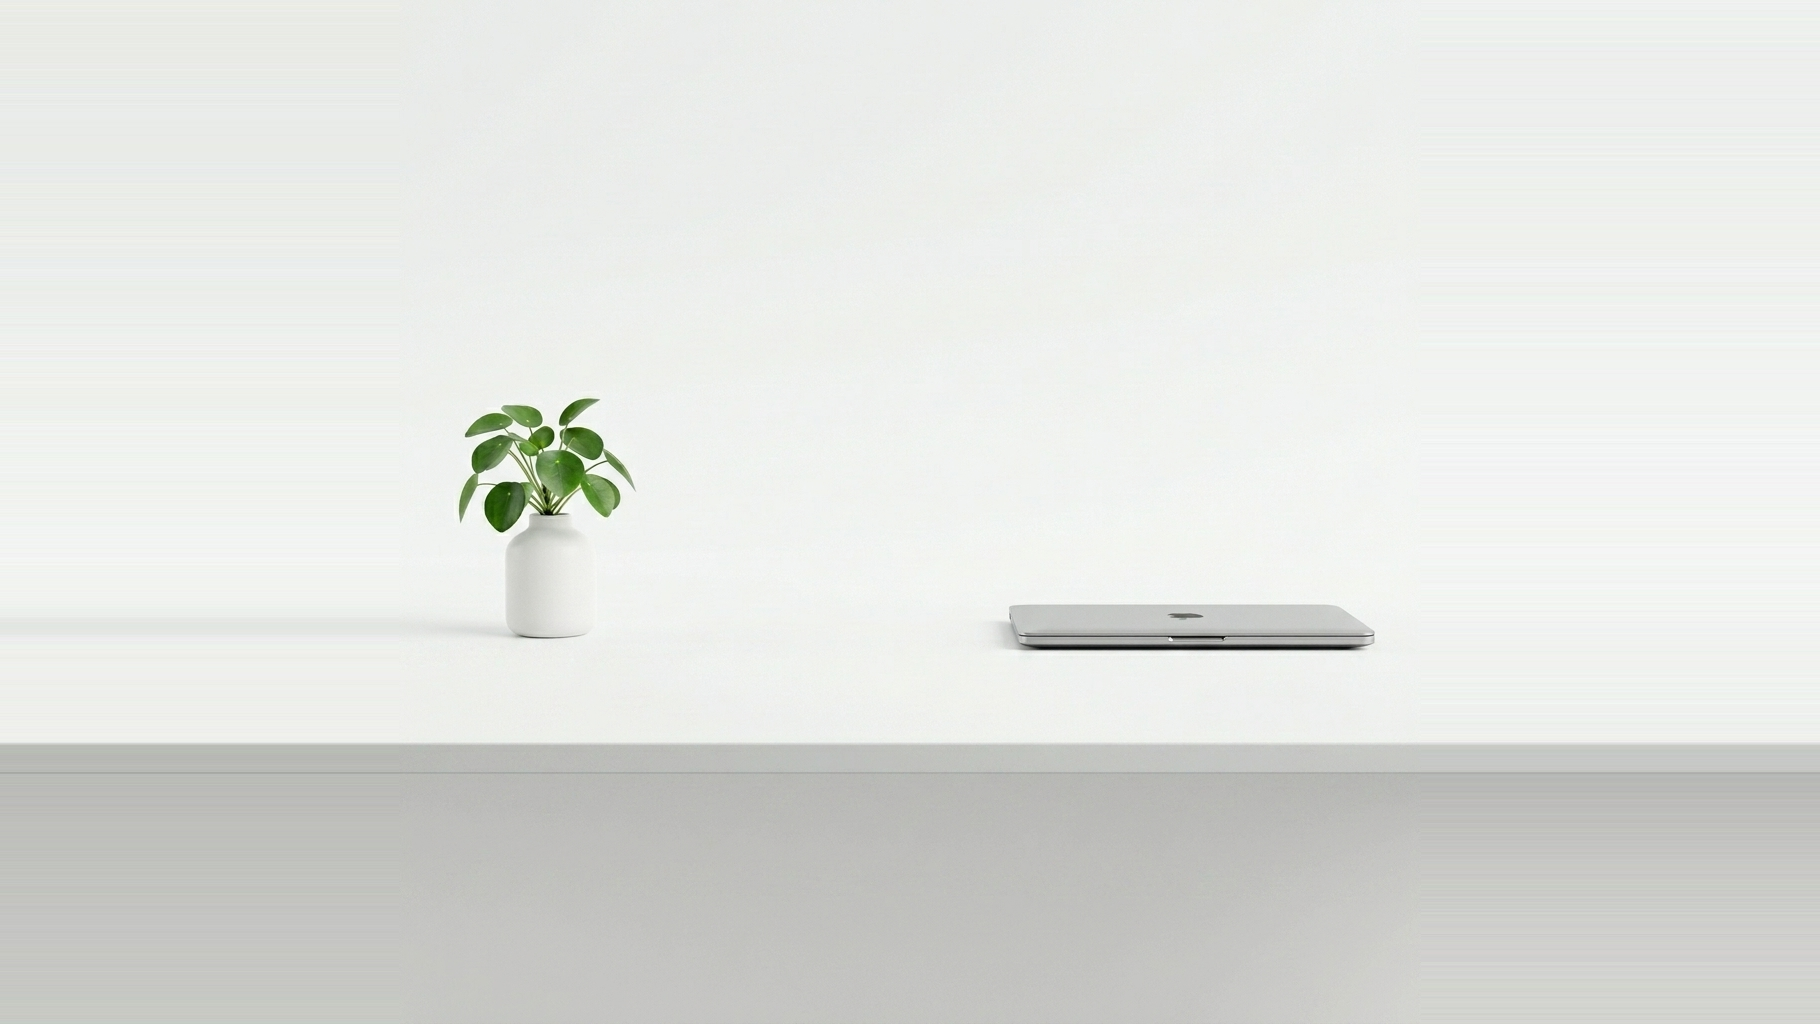
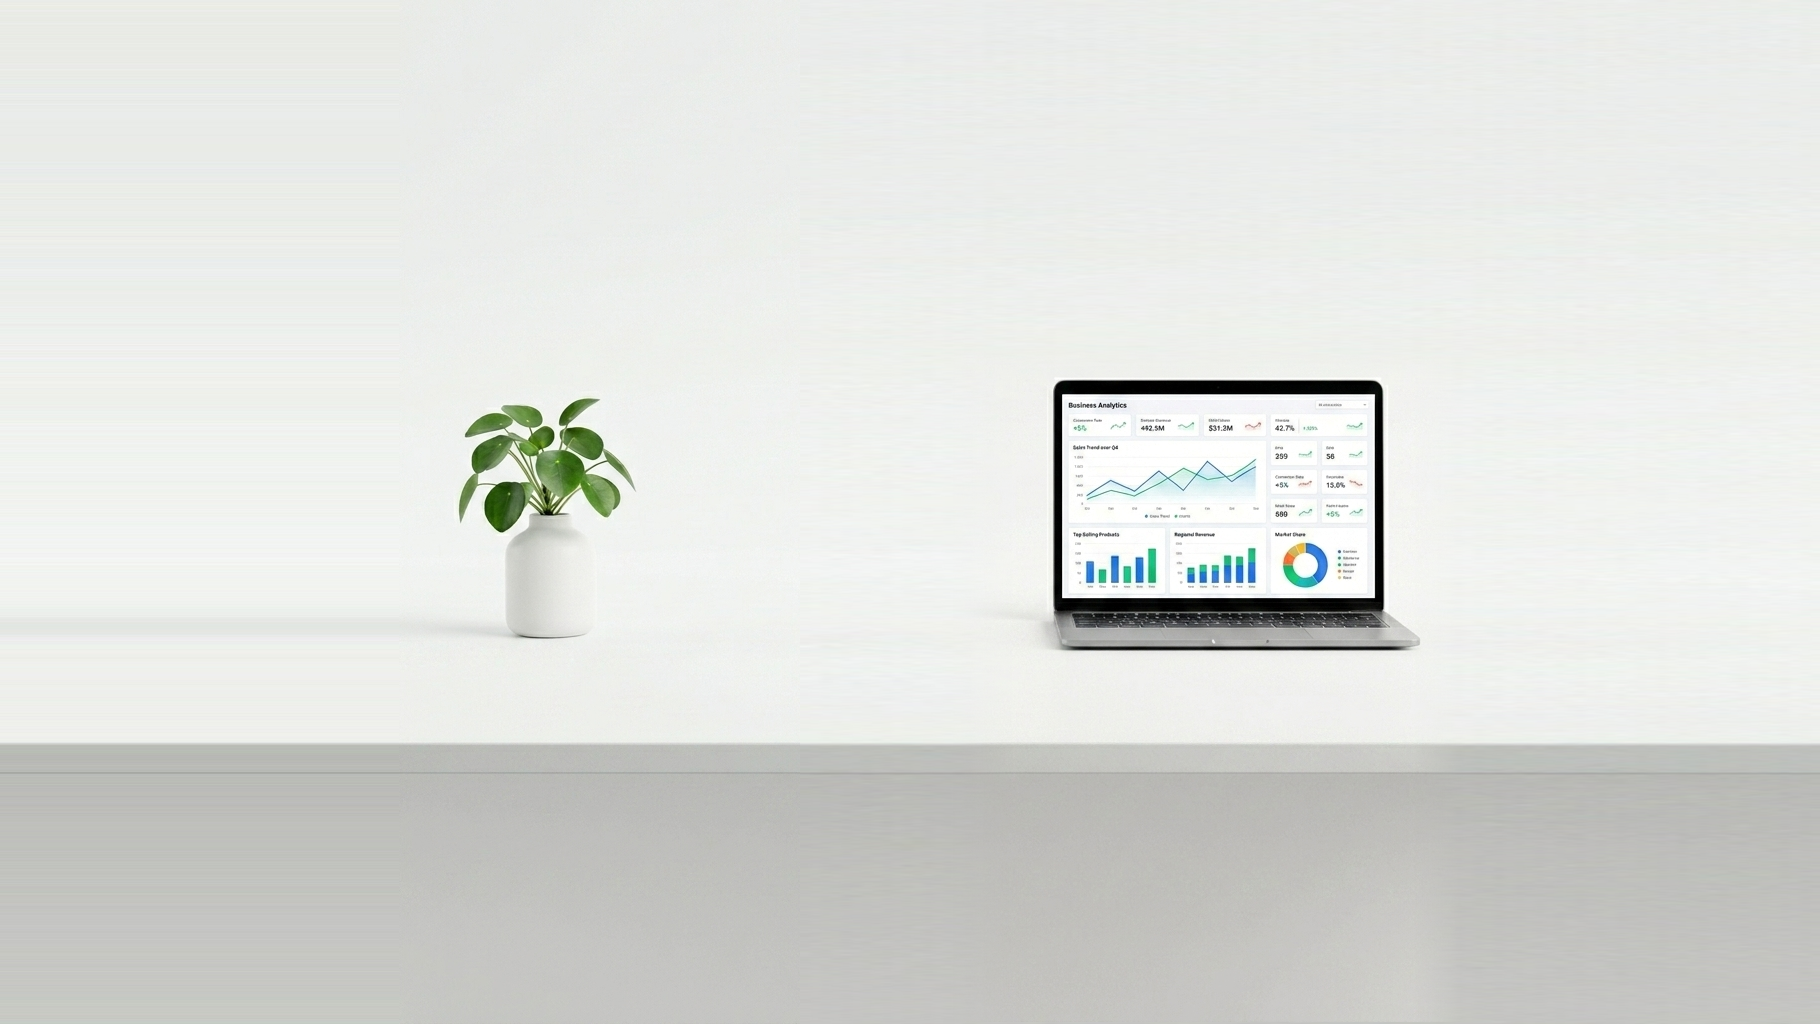
fix(services,global): replace red accents, add global text protection, align mobile cards size

Changed region(s): [[0.5538, 0.3438, 0.8, 0.6562]]

diff --git a/src/styles/global.css b/src/styles/global.css
@@ -33,6 +33,11 @@
 @layer base {
   html {
     @apply scroll-smooth antialiased;
+    -webkit-user-select: none;
+    -moz-user-select: none;
+    -ms-user-select: none;
+    user-select: none;
+    -webkit-touch-callout: none;
   }
 
   body {
@@ -41,6 +46,17 @@
       linear-gradient(to right, rgba(10, 25, 47, 0.03) 1px, transparent 1px),
       linear-gradient(to bottom, rgba(10, 25, 47, 0.03) 1px, transparent 1px);
     background-size: 3.5rem 3.5rem;
+    -webkit-user-select: none;
+    -moz-user-select: none;
+    -ms-user-select: none;
+    user-select: none;
+  }
+
+  input, textarea, select, [contenteditable="true"] {
+    -webkit-user-select: text;
+    -moz-user-select: text;
+    -ms-user-select: text;
+    user-select: text;
   }
 
   /* Accessible focus states */
